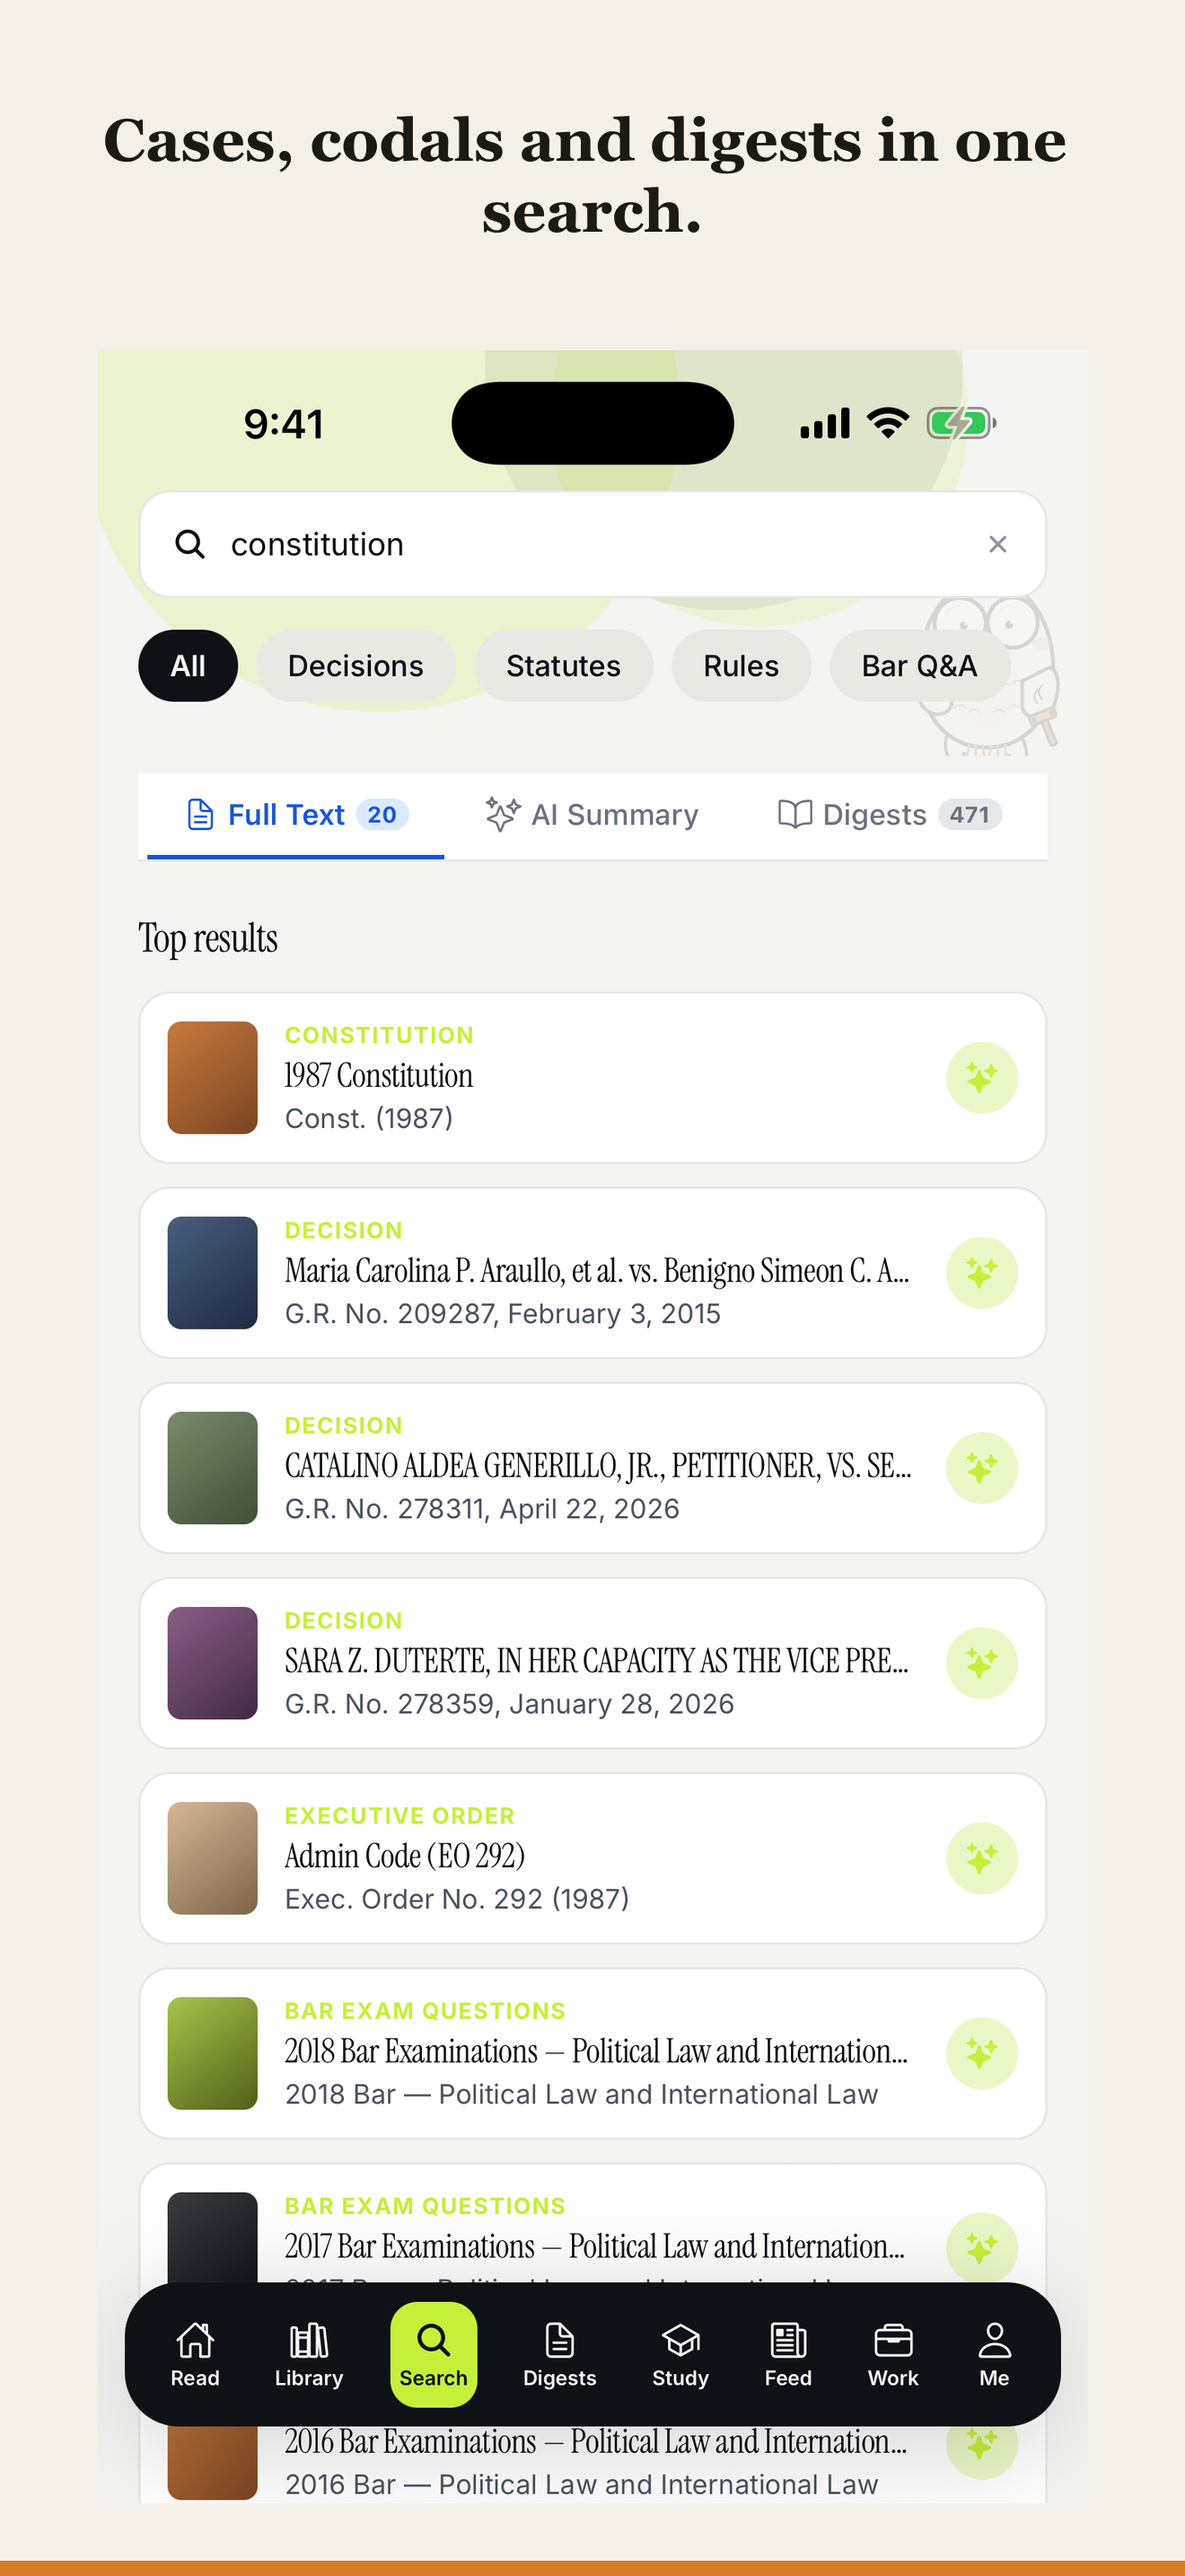
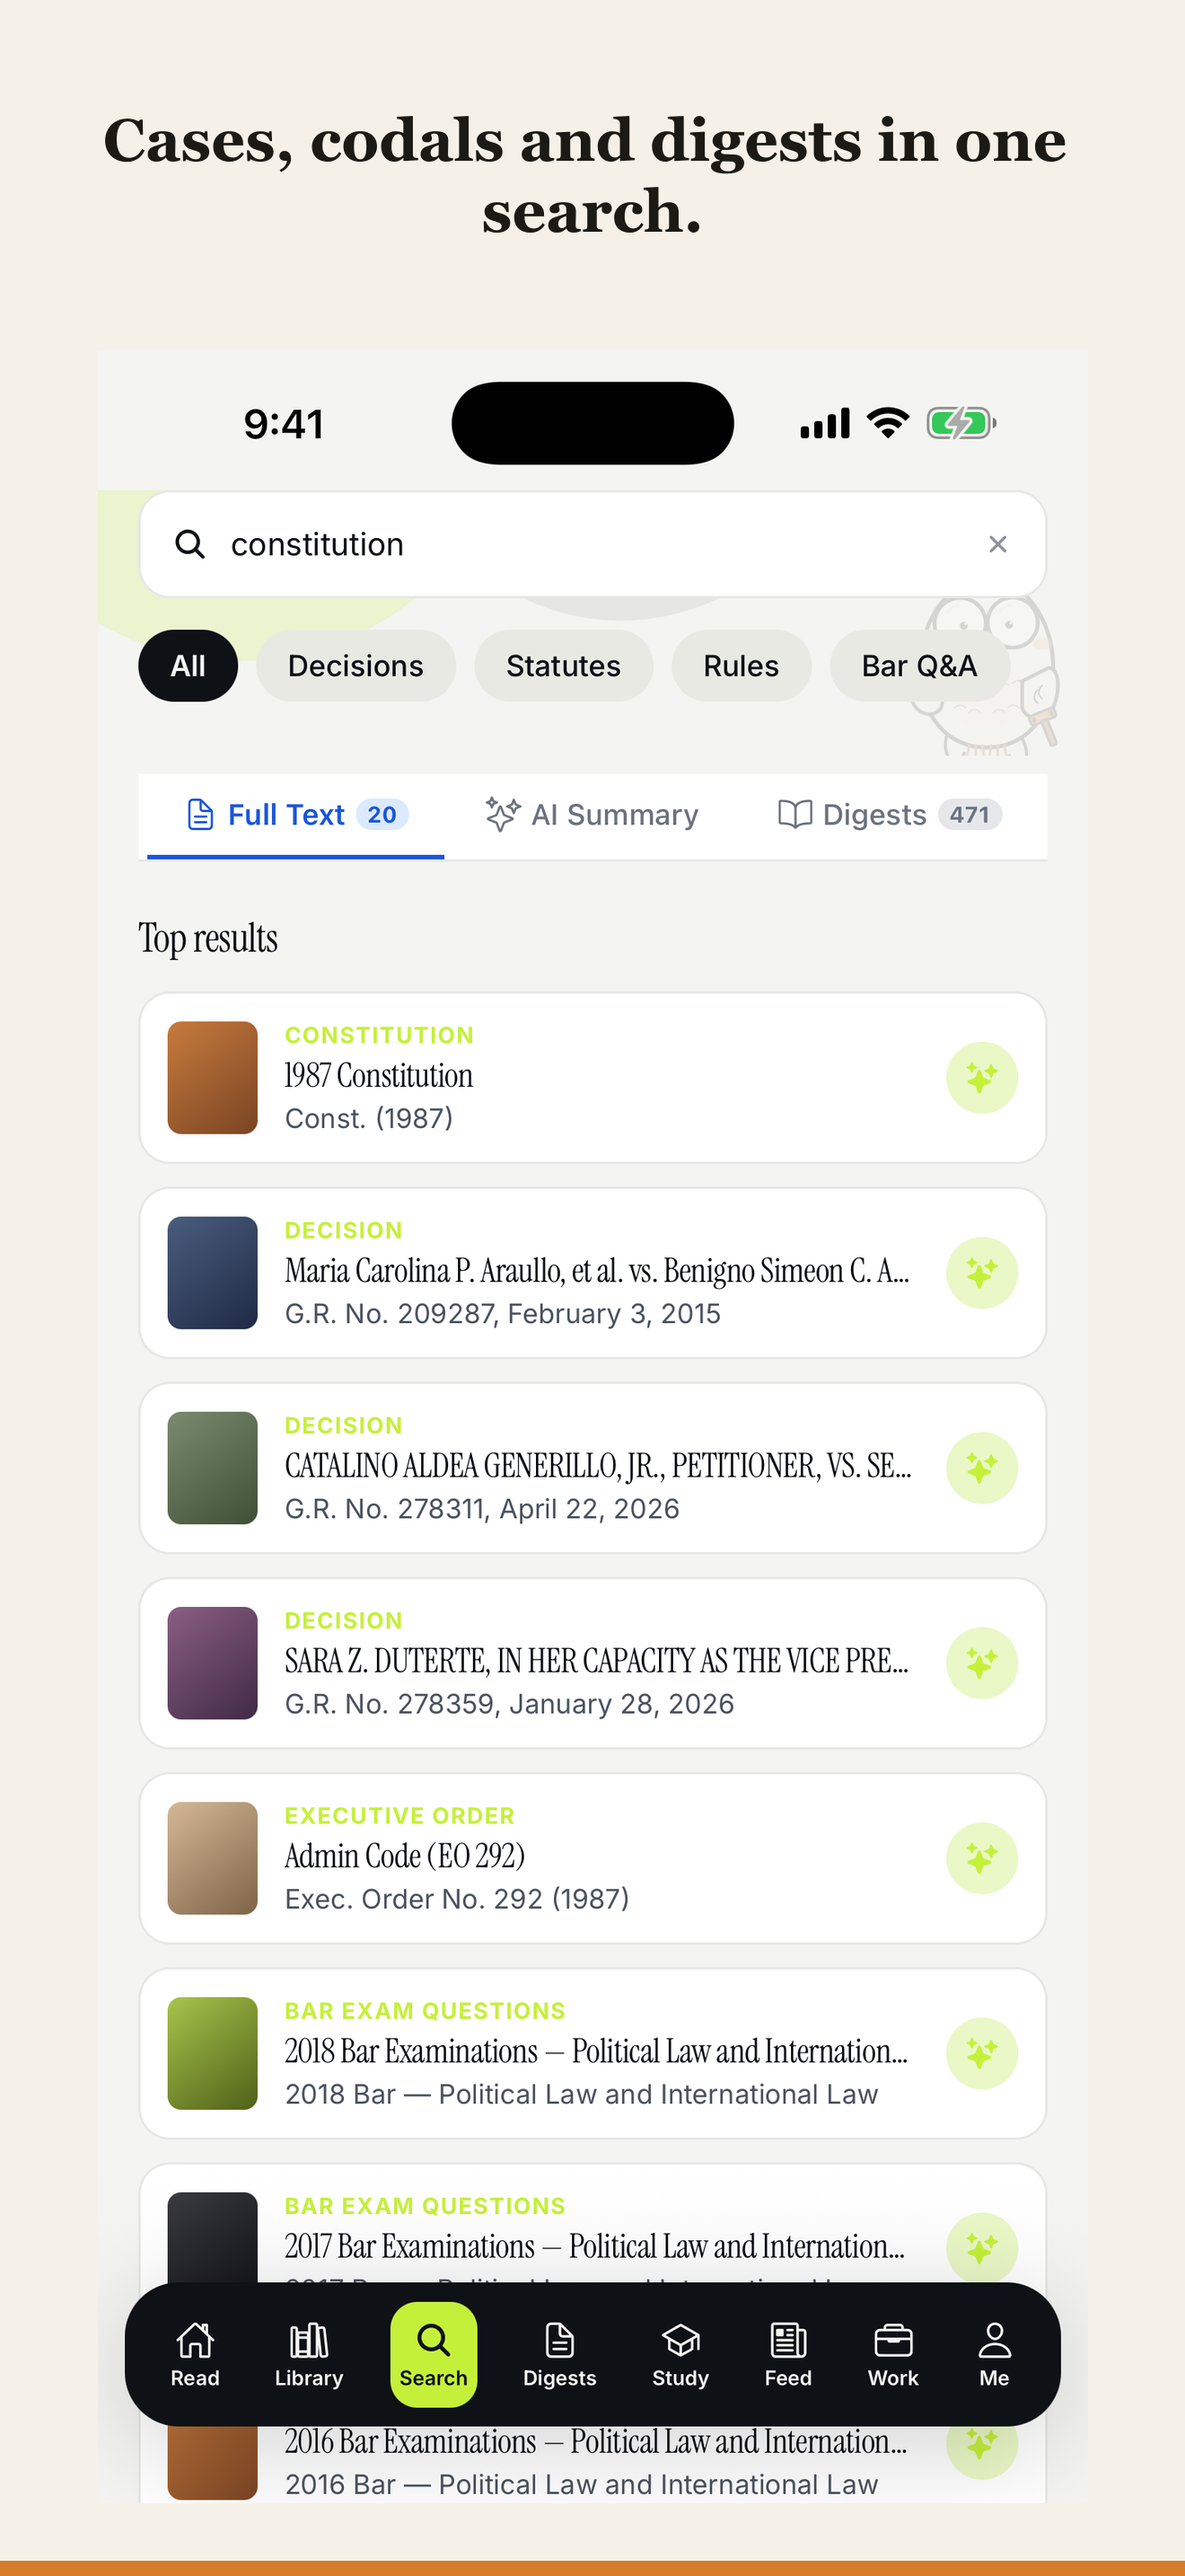
chore(mobile): re-shoot 04 and 06 on the post-#379 bundle
Rebased onto b7b3be5 ("render inline citations instead of raw SOURCE
markers"), which this branch was cut before.

04-ai-assistant: the Session 2 blocker is gone. The simulator bundle was
rebuilt from b7b3be5 and the answer now reads as prose with inline [1], [2],
[4], [5], [6] citations pointing at numbered rows in the Sources panel — no raw
UUID, no "SOURCE", no literal **asterisks**. Framed for the first time; it was
previously held out of framed/ as evidence of the defect.

06-search: #379 also added the status-bar scrim to SearchScreen.tsx, so the
Session 2 capture was stale. Re-shot on the new bundle.

01, 02, 03 and 05 are untouched by #379 and were deliberately not re-shot.
framed/iphone-6-9/ now holds all six screens at 1320x2868.

Worth recording for the next session: `constitution` produced a genuinely
cited answer, but most substantive legal queries currently return "The
provided source passages do not contain specific information regarding…" with
zero valid citations — a retrieval gap, unrelated to this branch. That
non-answer looks almost identical at a glance, so the answer has to be read
before capturing, not just checked for the presence of text.

iPad still not captured: the simulator is signed out and no session has had an
account password.

Changed region(s): [[0.0621, 0.1241, 0.8386, 0.2793], [0.1864, 0.2483, 0.2174, 0.2793]]

diff --git a/apps/mobile/store/IOS_SCREENSHOT_CAPTURE.md b/apps/mobile/store/IOS_SCREENSHOT_CAPTURE.md
@@ -493,6 +493,52 @@ the device currently left booted.
 - **The 6.9" dimension is still unread off the ASC upload slot**, for the same
   reason. We continue to capture 1320×2868 natively.
 
+### Session 3 — 2026-08-13, rebased onto #379
+
+**All 6 iPhone screens now framed.** This branch was cut from `aade14d`, before
+#379 (`b7b3be5`, "render inline citations instead of raw SOURCE markers")
+landed, and has been rebased onto it.
+
+#### Why two screens were re-shot
+
+- **`04-ai-assistant`** — the blocker recorded in Session 2 is fixed. The
+  simulator bundle was rebuilt from `b7b3be5` with the recipe above and the
+  answer now reads as prose with inline `[1]`, `[2]`, `[4]`, `[5]`, `[6]`
+  citations pointing at numbered rows in the Sources panel. No raw UUID, no
+  `SOURCE`, no literal `**asterisks**`. It is framed for the first time.
+- **`06-search`** — #379 also added the status-bar scrim to
+  `SearchScreen.tsx`, so the previous capture was stale. Re-shot; the status
+  bar area is opaque and nothing collides with the clock.
+
+`01`, `02`, `03` and `05` are untouched by #379 and were deliberately NOT
+re-shot — their raws and framed PNGs are byte-identical to Session 2.
+
+#### The query matters more than expected
+
+`constitution` produced a genuinely cited answer (High confidence 100%, 8
+sources). **Most substantive legal queries currently do not.** They come back
+with "The provided source passages do not contain specific information
+regarding…" and zero valid citations — a known retrieval gap, not a client bug,
+and unrelated to this branch. A polite non-answer looks almost identical at a
+glance and is a bad frame for a legal research app, so **read the answer before
+capturing**, don't just check that text appeared.
+
+#### Still open on the Sources panel
+
+Eight rows all read "1987 Constitution of the Philippines / Const. (1987)".
+They are eight *distinct sections* — deduplication is on exact
+`(document_id, section_id)` pairs, so nothing is being collapsed wrongly — but
+the server's `AnswerSource` (`services/rag-service/src/answer/schemas.py:81-93`)
+carries no section heading, only a `section_id` uuid. The `1.`–`8.` numbering
+added in #379 is what disambiguates the rows today. Surfacing a real heading
+needs a new field on that schema.
+
+#### iPad — still not captured
+
+Unchanged from Session 2: the iPad Pro 13" simulator is signed out and no
+session so far has had an account password. Its bundle is still the `fadaf7f`
+build, so it needs the rebuild recipe re-run from `b7b3be5` after sign-in.
+
 ## 9. Related open PRs
 
 - **#366** `fix/store-config-eas-metadata-push` — 2 commits. `store.config.json`
